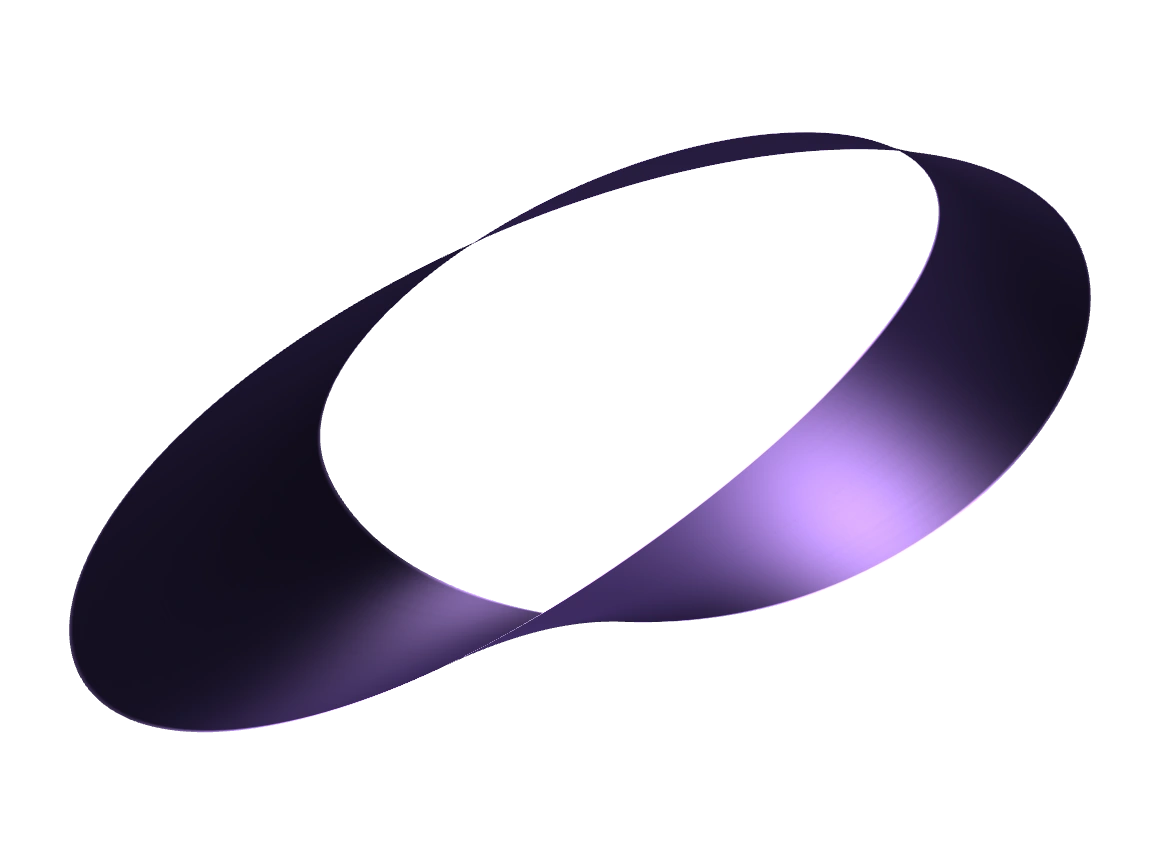
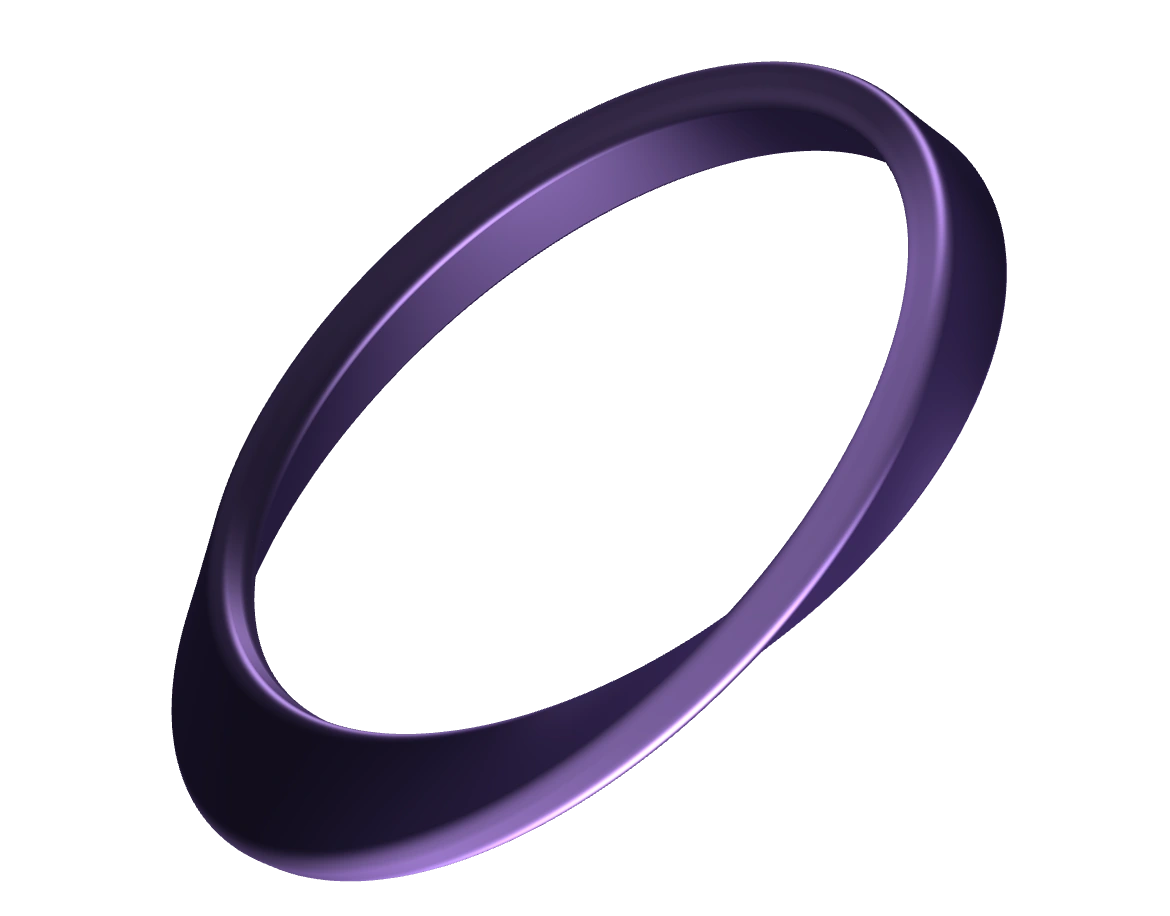
fix: match the hero ring to the beveled reference profile

Changed region(s): [[0.0615, 0.0612, 0.9538, 0.9788]]

diff --git a/src/mobiusRenderer.ts b/src/mobiusRenderer.ts
@@ -27,8 +27,8 @@ const vertexSource = `
     surfaceTangent = rotate(tangent);
     surfaceUv = materialPosition;
     surfaceDepth = p.z;
-    float scale = 0.92 * clamp(aspect / 1.36, 1.0, 1.15);
-    gl_Position = vec4(p.x * scale / aspect + 0.035, p.y * scale + 0.06, -p.z * 0.5, 1.0);
+    float scale = 0.87 * clamp(aspect / 1.32, 1.0, 1.12);
+    gl_Position = vec4(p.x * scale / aspect, p.y * scale, -p.z * 0.5, 1.0);
   }
 `
 
@@ -67,7 +67,6 @@ const fragmentSource = `
     vec3 lavender = vec3(0.79, 0.63, 0.95);
     vec3 view = vec3(0.0, 0.0, 1.0);
     vec3 normal = normalize(surfaceNormal);
-    normal *= dot(normal, view) < 0.0 ? -1.0 : 1.0;
     vec3 tangent = normalize(surfaceTangent - normal * dot(normal, surfaceTangent));
     vec3 across = cross(normal, tangent);
     vec3 key = normalize(vec3(0.58 + lightPosition.x * 0.22, -0.86 + lightPosition.y * 0.22, -0.26));
@@ -85,7 +84,7 @@ const fragmentSource = `
     float brush = 1.0 + 0.18 * fibers;
 
     float grazing = pow(1.0 - max(dot(normal, view), 0.0), 2.2);
-    float edge = smoothstep(0.967, 1.0, width);
+    float edge = smoothstep(0.75, 1.0, width);
     vec3 rim = normalize(vec3(-0.74, -0.57, 0.33));
     float edgeLight = 0.14 + 0.52 * diffuse + 0.45 * reflection
       + 0.24 * max(dot(normal, rim), 0.0);
@@ -96,7 +95,7 @@ const fragmentSource = `
     // A soft rim on the near side keeps the edge readable through the fold.
     float frontAmount = smoothstep(0.13, 0.69, surfaceDepth);
     color += violet * frontAmount * (0.21 + 0.25 * grazing);
-    color += lavender * edge * (edgeLight + 0.65 * frontAmount);
+    color += lavender * edge * (edgeLight * 0.62 + 0.29 * frontAmount);
     gl_FragColor = vec4(color, 1.0);
   }
 `
@@ -115,14 +114,35 @@ function compile(gl: WebGLRenderingContext, type: number, source: string) {
 
 function createMesh() {
   const segments = 224
-  const across = 28
-  const majorRadius = 1.12
-  const minorRadius = .82
-  const halfWidth = .40
-  const shoulderReach = .64 * Math.PI
-  const shoulderTaper = .28
-  const frontTwistPhase = 1.65
+  const majorRadius = 1.14
+  const minorRadius = 1.02
+  const halfWidth = .195
+  const halfThickness = .064
+  const frontTwistPhase = 1.30
   const frontTwistBias = .28
+  const bevel = halfThickness * .78
+  const cornerSteps = 9
+
+  // Two rounded corners and their opposites give the section exact half-turn
+  // symmetry. The straight spans between corners are the faces of the band.
+  const halfSection = Array.from({ length: 2 * (cornerSteps + 1) }, (_, index) => {
+    const corner = Math.floor(index / (cornerSteps + 1))
+    const position = index % (cornerSteps + 1)
+    const angle = (corner + position / cornerSteps) * Math.PI / 2
+    return {
+      across: (corner === 0 ? 1 : -1) * (halfWidth - bevel) + bevel * Math.cos(angle),
+      thickness: halfThickness - bevel + bevel * Math.sin(angle),
+      tangentX: -Math.sin(angle),
+      tangentY: Math.cos(angle),
+    }
+  })
+  const section = halfSection.concat(halfSection.map(({ across, thickness, tangentX, tangentY }) => ({
+    across: -across,
+    thickness: -thickness,
+    tangentX: -tangentX,
+    tangentY: -tangentY,
+  })))
+
   const vertices: number[] = []
   const indices: number[] = []
 
@@ -131,21 +151,13 @@ function createMesh() {
     const angle = along === segments ? 0 : u * Math.PI * 2
     const cos = Math.cos(angle)
     const sin = Math.sin(angle)
-    // The last row matches the first row in reverse. Duplicate seam vertices
-    // carry the flipped normals required by the non-orientable surface.
+    // A half-turn joins opposite points of the bevel at the closed seam.
+    // Duplicate render vertices keep the fibers' longitudinal UV continuous.
     const seamSign = along === segments ? -1 : 1
-    // Keep the rounded shoulder and give the visible near half more of the
-    // twist. Its rotation stays monotonic and adds up to one half-turn.
-    const signedAngle = angle > Math.PI ? angle - 2 * Math.PI : angle
-    const shoulder = Math.max(0, 1 - (signedAngle / shoulderReach) ** 2)
-    const weight = shoulder ** 3
-    const weightDerivative = -6 * signedAngle * shoulder ** 2 / shoulderReach ** 2
     const twist = angle / 2 + frontTwistPhase + frontTwistBias * cos
     const twistDerivative = .5 - frontTwistBias * sin
     const twistCos = seamSign * Math.cos(twist)
     const twistSin = seamSign * Math.sin(twist)
-    const width = halfWidth * (1 - shoulderTaper * weight)
-    const widthDerivative = -halfWidth * shoulderTaper * weightDerivative
     const length = Math.hypot(minorRadius * cos, majorRadius * sin)
     const lengthDerivative = (majorRadius ** 2 - minorRadius ** 2) * sin * cos / length
     const outwardX = minorRadius * cos / length
@@ -153,31 +165,33 @@ function createMesh() {
     const outwardDerivativeX = (-minorRadius * sin - outwardX * lengthDerivative) / length
     const outwardDerivativeY = (majorRadius * cos - outwardY * lengthDerivative) / length
 
-    for (let column = 0; column <= across; column++) {
-      const v = (2 * column - across) / across
-      const offset = v * width
-      const offsetDerivative = v * widthDerivative
-      const wx = outwardX * twistCos
-      const wy = outwardY * twistCos
-      const wz = twistSin
-      const tx = -majorRadius * sin + offsetDerivative * wx
-        + offset * (outwardDerivativeX * twistCos - twistDerivative * outwardX * twistSin)
-      const ty = minorRadius * cos + offsetDerivative * wy
-        + offset * (outwardDerivativeY * twistCos - twistDerivative * outwardY * twistSin)
-      const tz = offsetDerivative * wz + offset * twistDerivative * twistCos
+    for (let column = 0; column < section.length; column++) {
+      const { across, thickness, tangentX, tangentY } = section[column]
+      const radial = across * twistCos - thickness * twistSin
+      const height = across * twistSin + thickness * twistCos
+      const radialDerivative = -height * twistDerivative
+      const tx = -majorRadius * sin + outwardDerivativeX * radial + outwardX * radialDerivative
+      const ty = minorRadius * cos + outwardDerivativeY * radial + outwardY * radialDerivative
+      const tz = radial * twistDerivative
+      const sectionRadial = tangentX * twistCos - tangentY * twistSin
+      const sectionX = outwardX * sectionRadial
+      const sectionY = outwardY * sectionRadial
+      const sectionZ = tangentX * twistSin + tangentY * twistCos
 
       vertices.push(
-        majorRadius * cos + offset * wx,
-        minorRadius * sin + offset * wy,
-        offset * wz,
-        ty * wz - tz * wy, tz * wx - tx * wz, tx * wy - ty * wx,
-        tx, ty, tz, u, v,
+        majorRadius * cos + radial * outwardX,
+        minorRadius * sin + radial * outwardY,
+        height,
+        ty * sectionZ - tz * sectionY,
+        tz * sectionX - tx * sectionZ,
+        tx * sectionY - ty * sectionX,
+        tx, ty, tz, u, across / halfWidth,
       )
 
-      if (along === segments || column === across) continue
-      const first = along * (across + 1) + column
-      const next = first + across + 1
-      indices.push(first, next, first + 1, next, next + 1, first + 1)
+      if (along === segments) continue
+      const first = along * section.length + column
+      const adjacent = along * section.length + (column + 1) % section.length
+      indices.push(first, first + section.length, adjacent, first + section.length, adjacent + section.length, adjacent)
     }
   }
 
@@ -251,7 +265,7 @@ export function createMobiusRenderer(gl: WebGLRenderingContext) {
       gl.clear(gl.COLOR_BUFFER_BIT | gl.DEPTH_BUFFER_BIT)
       gl.uniform1f(aspect, width / height)
       // Look onto the near half-turn, with the crossover below the opening.
-      gl.uniform3f(angles, -.91 + y * .095, -.20 + x * .14, .36)
+      gl.uniform3f(angles, -.94 + y * .095, -.14 + x * .14, .66)
       gl.uniform2f(light, x, -y)
       gl.drawElements(gl.TRIANGLES, mesh.indices.length, gl.UNSIGNED_SHORT, 0)
     },

diff --git a/src/App.css b/src/App.css
@@ -113,7 +113,7 @@ body::after {
 .mobius-ribbon {
   position: relative;
   min-width: 0;
-  aspect-ratio: 1.38;
+  aspect-ratio: 1.28;
   margin-inline-end: -24px;
   border-radius: var(--radius-panel);
   background: radial-gradient(ellipse at 59% 48%, var(--color-glow-hero), transparent 65%);
@@ -155,7 +155,7 @@ body::after {
   .mobius-ribbon {
     width: min(100%, 520px);
     justify-self: center;
-    aspect-ratio: 1.47;
+    aspect-ratio: 1.31;
     margin-inline-end: 0;
   }
 }
